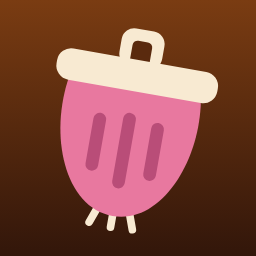
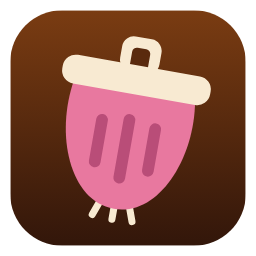
app 圖示切成圓角方塊
產生圖示時裁切:圓角半徑為邊長 22%,四周留 4% 的邊。原始 assets/icon.svg 不動。

diff --git a/scripts/make-icons.js b/scripts/make-icons.js
@@ -8,6 +8,8 @@ const fs = require('fs'); const path = require('path');
 const assets = path.join(__dirname, '..', 'assets');
 const svg = fs.readFileSync(path.join(assets, 'icon.svg'), 'utf8');
 const SIZES = [16, 24, 32, 48, 64, 128, 256];
+const INSET = 0.04;   // 四周留白，佔邊長的比例
+const RADIUS = 0.22;  // 圓角半徑，佔方塊邊長的比例
 
 app.disableHardwareAcceleration();
 app.whenReady().then(async () => {
@@ -21,7 +23,10 @@ app.whenReady().then(async () => {
       img.onload = () => {
         const c = document.createElement('canvas'); c.width = ${size}; c.height = ${size};
         const g = c.getContext('2d'); g.imageSmoothingQuality = 'high';
-        g.drawImage(img, 0, 0, ${size}, ${size});
+        // 桌面圖示：四周留一點邊、切成圓角方塊，在工作列上才不會是一塊滿版的方形
+        const pad = ${size} * ${INSET}; const side = ${size} - pad * 2;
+        g.beginPath(); g.roundRect(pad, pad, side, side, side * ${RADIUS}); g.clip();
+        g.drawImage(img, pad, pad, side, side);
         resolve(c.toDataURL('image/png'));
       };
       img.onerror = () => reject(new Error('SVG 畫不出來'));
